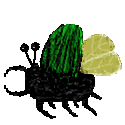
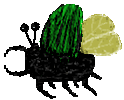
Size of the PNG files cropped down to allow for more accurate collision detection

diff --git a/Game/GameEngine.cs b/Game/GameEngine.cs
@@ -20,7 +20,8 @@ namespace Game
         Store
     }
 
-    enum levels
+    //levels based on minimum distance 
+    enum Levels
     {
         one = 5000,
         two = 10000,
@@ -28,10 +29,18 @@ namespace Game
         four = 40000
     }
 
+    enum Speeds
+    {
+        one = 15,
+        two = 30,
+        three = 45,
+        four = 60
+    }
 
     //Used in the world.xaml.cs with the Screen parameter of the World.xaml.
     class GameEngine
     {
+        Levels level; Speeds speed;
         GameStates GameState;
         WriteableBitmap Screen;
         ItemCreator ItemSpawner;
@@ -48,10 +57,12 @@ namespace Game
             Screen = screen;
             GameState = GameStates.MainMenu;
             distance = 0;
+            level = Levels.one;
+            speed = Speeds.one;
             //Initialize objects
             User = new Player();
             ItemSpawner = new ItemCreator();
-            ObstacleSpawner = new ObstacleCreator(User);
+            ObstacleSpawner = new ObstacleCreator(User, (int)speed);
             backgroundAnimator = new BackgroundAnimator(screen);
             
         }
@@ -88,13 +99,15 @@ namespace Game
 
                 //TO DO: update the distance and other graphics
                 UpdateDistance();
+                SpawnObstacles();
                 backgroundAnimator.LoadAll();
             } 
         }
 
         void UpdateDistance()
         {
-
+            distance += (int)speed;
+            Interval += (int)speed;
         }
 
         void SpawnItems()
@@ -102,10 +115,15 @@ namespace Game
 
         }
 
-        int spawninterval = 0;
+        int spawnInterval = 500;
+        int Interval = 0;
         void SpawnObstacles()
         {
-
+            if (Interval >= spawnInterval)
+            {
+                Interval = 0;
+                FrameHandler.Entities.Add(ObstacleSpawner.getRandom());
+            }
         }
 
 //=============================================================================================
@@ -132,9 +150,6 @@ namespace Game
             {
                 backgroundAnimator.ChangeBackground(BackgroundAssets.Running_Background);
                 FrameHandler.Entities.Add(User);
-                //DELETE WHEN
-                FrameHandler.Entities.Add(new Slug(User));
-                //DONE TESTING
                 GameState = GameStates.GameRunning;
             }
             //go to the highscores menu

diff --git a/Game/ObstacleFactory/ObstacleCreator.cs b/Game/ObstacleFactory/ObstacleCreator.cs
@@ -21,14 +21,16 @@ namespace Game.ObstacleFactory
         OTypes Type;
         ObstacleFactory OFactory;
         Random rand;
+        public int Speed;
 
-        public ObstacleCreator(Player U)
+        public ObstacleCreator(Player U, int speed)
         {
             rand = new Random();
             User = U;
+            Speed = speed;
 
             //Gives a value to avoid null errors.
-            OFactory = new SlugFactory(U);
+            OFactory = new SlugFactory(U, speed);
         }
 //=============================================================================================
         //Returns the obstacle that corresponds with T.
@@ -37,13 +39,13 @@ namespace Game.ObstacleFactory
             switch (T)
             {
                 case OTypes.Slug:
-                    OFactory = new SlugFactory(User);
+                    OFactory = new SlugFactory(User, Speed);
                     break;
                 case OTypes.Beetle:
-                    OFactory = new BeetleFactory(User);
+                    OFactory = new BeetleFactory(User, Speed);
                     break;
                 case OTypes.BrokenWindow:
-                    OFactory = new WindowFactory(User);
+                    OFactory = new WindowFactory(User, Speed);
                     break;
                 default:
                     break;
@@ -52,7 +54,7 @@ namespace Game.ObstacleFactory
         }
 
         //Feeds a random OType to Create() resulting in a random obstacle.
-        Obstacle getRandom()
+        public Obstacle getRandom()
         {
             //gets a random number in range of the enum OTypes.
             int num = rand.Next(Enum.GetNames(typeof(OTypes)).Length);

diff --git a/Game/ObstacleFactory/ObstacleFactory.cs b/Game/ObstacleFactory/ObstacleFactory.cs
@@ -12,11 +12,13 @@ namespace Game.ObstacleFactory
     {
         //Used for collision events with the user.
         protected Player User;
+        protected int Speed;
 
         //Enforces the parameter that is stored into user.
-        public ObstacleFactory(Player U)
+        public ObstacleFactory(Player U, int speed)
         {
             User = U;
+            Speed = speed;
         }
         //Subclasses create specified obstacle.
         public abstract Obstacle Create();

diff --git a/Game/Eitities/Obstacle.cs b/Game/Eitities/Obstacle.cs
@@ -17,15 +17,7 @@ namespace Game.Entities
     abstract class Obstacle : Entity
     {
         public Player User;
-        int Speed;
-
-        public Obstacle(Player U) : base()
-        {
-            Speed = 15;
-            User = U;
-            LoadAnimations();
-            Velocity = new Point(-Speed, 0); //Magic value for velocity.
-        }
+        protected int Speed;
 
         public Obstacle(Player U, int speed) : base()
         {

diff --git a/Game/ObstacleFactory/WindowFactory.cs b/Game/ObstacleFactory/WindowFactory.cs
@@ -9,12 +9,12 @@ namespace Game.ObstacleFactory
 {
     class WindowFactory : ObstacleFactory
     {
-        public WindowFactory(Player U) : base(U) { }
+        public WindowFactory(Player U, int speed) : base(U, speed) { }
 
         //Create a new BrokenWindow
         public override Obstacle Create()
         {
-            return new BrokenWindow(User);
+            return new BrokenWindow(User, Speed);
         }
     }
 }

diff --git a/Game/ObstacleFactory/BeetleFactory.cs b/Game/ObstacleFactory/BeetleFactory.cs
@@ -9,12 +9,12 @@ namespace Game.ObstacleFactory
 {
     class BeetleFactory : ObstacleFactory
     {
-        public BeetleFactory(Player U) : base(U) { }
+        public BeetleFactory(Player U, int speed) : base(U, speed) { }
 
         //Creates a new beetle
         public override Obstacle Create()
         {
-            return new Beetle(User);
+            return new Beetle(User, Speed);
         }
 
     }

diff --git a/Game/ObstacleFactory/SlugFactory.cs b/Game/ObstacleFactory/SlugFactory.cs
@@ -9,12 +9,12 @@ namespace Game.ObstacleFactory
 {
     class SlugFactory : ObstacleFactory
     {
-        public SlugFactory(Player U) : base(U) { }
+        public SlugFactory(Player U, int speed) : base(U, speed) { }
 
         //Creates a new Slug
         public override Obstacle Create()
         {
-            return new Slug(User);
+            return new Slug(User, Speed);
         }
     }
 }

diff --git a/Game/Eitities/BrokenWindow.cs b/Game/Eitities/BrokenWindow.cs
@@ -10,7 +10,7 @@ namespace Game.Entities
 {
     class BrokenWindow : Obstacle
     {
-        public BrokenWindow(Player U) : base(U)
+        public BrokenWindow(Player U, int speed) : base(U, speed)
         {
             //Initial position
             Position = new Point(1440, EntityAnimations.Floor - GetSpriteSize().Height); //Magic numbers for start pos.

diff --git a/Game/Eitities/Slug.cs b/Game/Eitities/Slug.cs
@@ -10,7 +10,7 @@ namespace Game.Entities
 {
     class Slug : Obstacle
     {
-        public Slug(Player u) : base(u)
+        public Slug(Player U, int speed) : base(U, speed)
         {
             //Initial position
             Position = new Point(1440, EntityAnimations.Floor - GetSpriteSize().Height); //Magic numbers for start pos.

diff --git a/Game/Eitities/Beetle.cs b/Game/Eitities/Beetle.cs
@@ -14,7 +14,7 @@ namespace Game.Entities
 {
     class Beetle : Obstacle
     {
-        public Beetle(Player U) : base(U)
+        public Beetle(Player U, int speed) : base(U, speed)
         {
             //Initial position
             Position = new Point(1440, 420); //Magic numbers for start pos.
